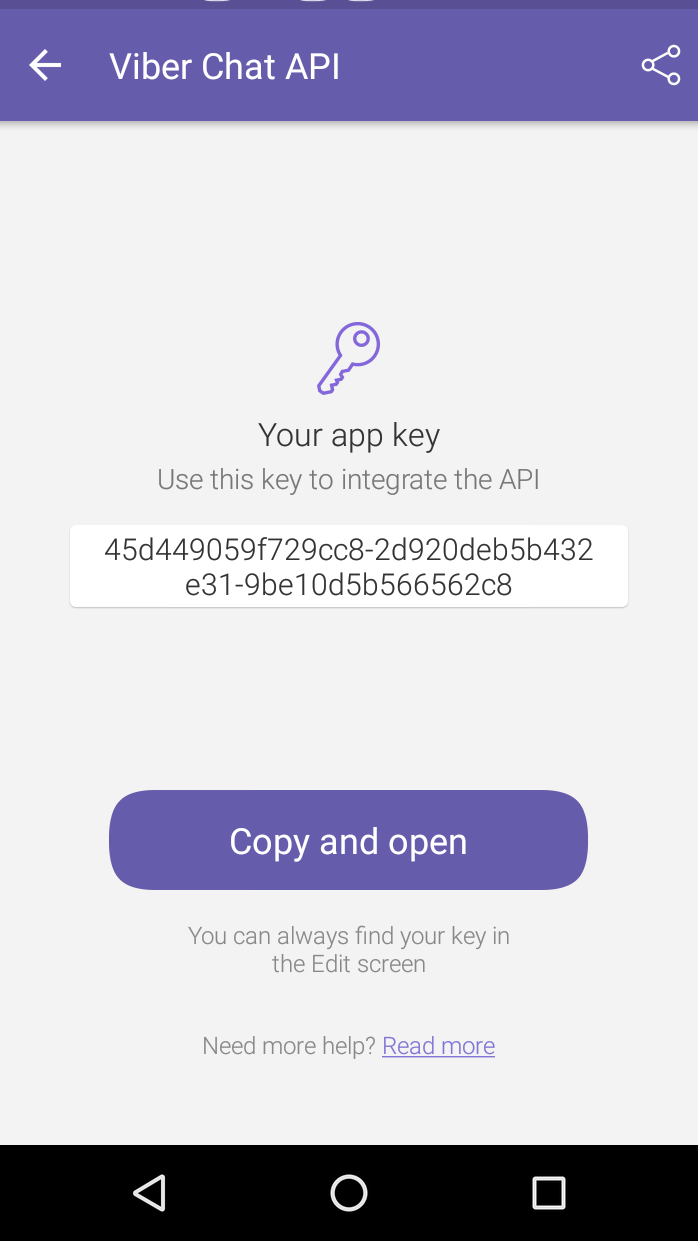
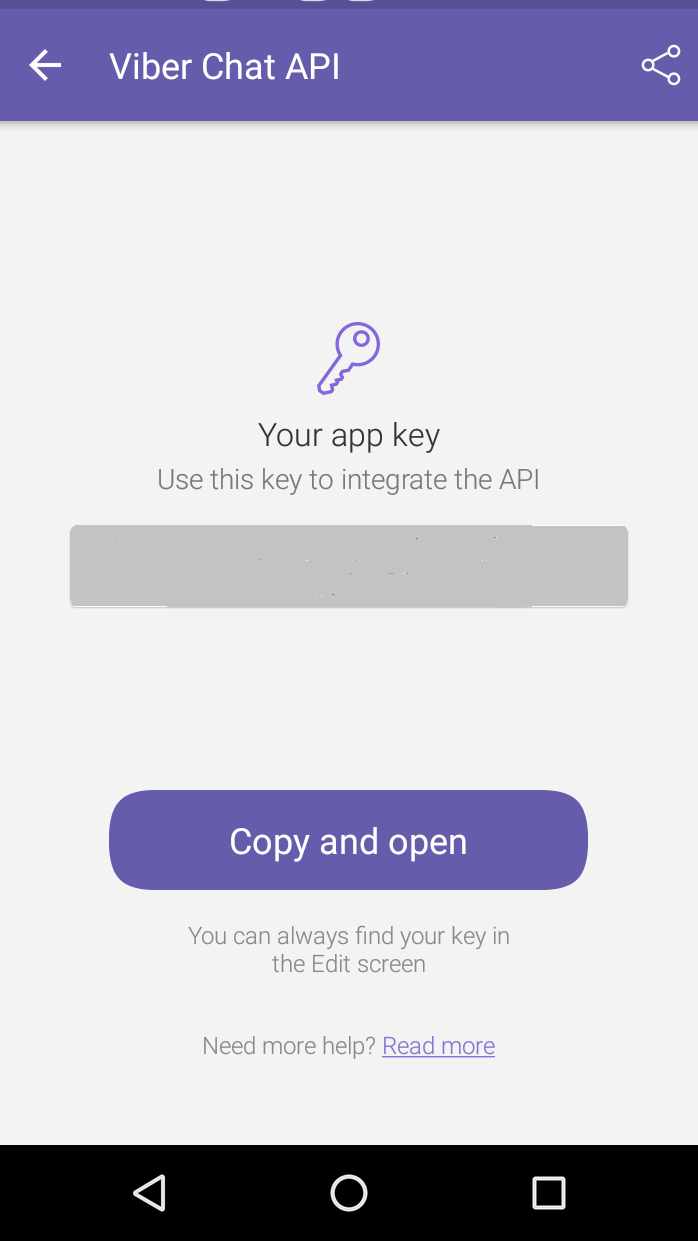
Fixes #8: Removed API key from code. (#9)
* cleaned up the code and removed original API key

* Updated documentation

Changed region(s): [[0.0903, 0.3981, 0.9026, 0.4899]]

diff --git a/index.js b/index.js
@@ -2,6 +2,12 @@ var express = require('express');
 var app = express();
 var bodyParser = require('body-parser');
 var request = require('request');
+var headerBody = { 
+				 	'cache-control': 'no-cache',
+					'content-type': 'application/json',
+					// recommended to inject access tokens as environmental variables, e.g.
+					'x-viber-auth-token': process.env.X_VIBER_AUTH_TOKEN
+				 };
 app.set('port', (process.env.PORT || 5000));
 
 //app.use(express.static(__dirname + '/public'));
@@ -22,12 +28,7 @@ app.get('/',function(req, response){
 	var options={
 			method: 'POST',	
 			url: 'https://chatapi.viber.com/pa/set_webhook',
-			headers: 
-			{ 
-				'cache-control': 'no-cache',
-				'content-type': 'application/json',
-				'x-viber-auth-token': '45a53f0fcb325002-41552d1f93cd0d0f-1a8d7fa78758d158'
-			},
+			headers: headerBody,
 			body: 
 			{
 			 	url: 'https://intense-crag-83953.herokuapp.com',
@@ -49,12 +50,7 @@ app.post('/postToPublic',function(req, response){
 	var options={
 			method: 'POST',	
 			url: 'https://chatapi.viber.com/pa/post',
-			headers: 
-			{ 
-				'cache-control': 'no-cache',
-				'content-type': 'application/json',
-				'x-viber-auth-token': '45a53f0fcb325002-41552d1f93cd0d0f-1a8d7fa78758d158'
-			},
+			headers: headerBody,
 			body: 
 			{
 			    from: "0JzJAjLh7wGDPJwDobRhwg==",
@@ -101,12 +97,7 @@ app.post('/', function(req, response) {
 			var options =   {
 						method: 'POST',	
 						url: 'https://chatapi.viber.com/pa/send_message',
-						headers: 
-						{ 
-							'cache-control': 'no-cache',
-							'content-type': 'application/json',
-							'x-viber-auth-token': '45a53f0fcb325002-41552d1f93cd0d0f-1a8d7fa78758d158'
-						},
+						headers: headerBody,
 						body: 
 						{
 							receiver: req.body.sender.id,
@@ -137,12 +128,7 @@ app.post('/', function(req, response) {
 		var options = {
 					method: 'POST',	
   					url: 'https://chatapi.viber.com/pa/send_message',
-					headers: 
-				    { 
-				    	'cache-control': 'no-cache',
-				    	'content-type': 'application/json',
-				    	'x-viber-auth-token': '45a53f0fcb325002-41552d1f93cd0d0f-1a8d7fa78758d158'
-				    },
+					headers: headerBody,
 				    body: 
 				    {
 				    	receiver: req.body.user.id,

diff --git a/README.md b/README.md
@@ -47,23 +47,26 @@ To create your account on -:
  
  <img src="./docs/images/chooseChatSoln.png" alt="alt text" height = '480' width="270">
  
- Copy the public account key.
+ Copy the public account key. (It will be in the area that is coloured gray).
  
  <img src="./docs/images/publicAccountKey.png" alt="alt text" height = '480' width="270">
  
-4. Change the key written after "'x-viber-auth-token':" (in index.js file) with the new public account key generated. Enclose the api key in ' '. Commit and push the changes to this forked repository.
-
-5. Create a new heroku app [here](https://dashboard.heroku.com/new?org=personal-apps).
+4. Create a new heroku app [here](https://dashboard.heroku.com/new?org=personal-apps).
 
  This app will accept the requests from Viber and Susi api.
  
  <img src="./docs/images/createHerokuApp.png" alt="alt text">
 
-6. Change the url in set webhook request options that is on line 33 in index.js file to https://YOUR-APP-NAME.herokuapp.com enclosed in ' '. Commit and push the changes to this forked repository.
+5. Create a config variable by switching to settings page of your app. The name of your config variable should be X_VIBER_AUTH_TOKEN 
+   and its value is the API key generated in step 3.
+
+   <img src="./docs/images/configVariables.PNG" alt="alt text">
+
+6. Change the url in set webhook request options that is on line 33 in index.js file to https://YOUR-HEROKU-APP-NAME.herokuapp.com enclosed in ' '. Commit and push the changes to this forked repository.
 
 7. Connect the heroku app to the forked repository.
  
- Connect the app to Github
+ Connect the app to Github by selecting the name of this forked repository.
  
 <img src="./docs/images/herokuGithubConnect.png" alt="alt text">
 
